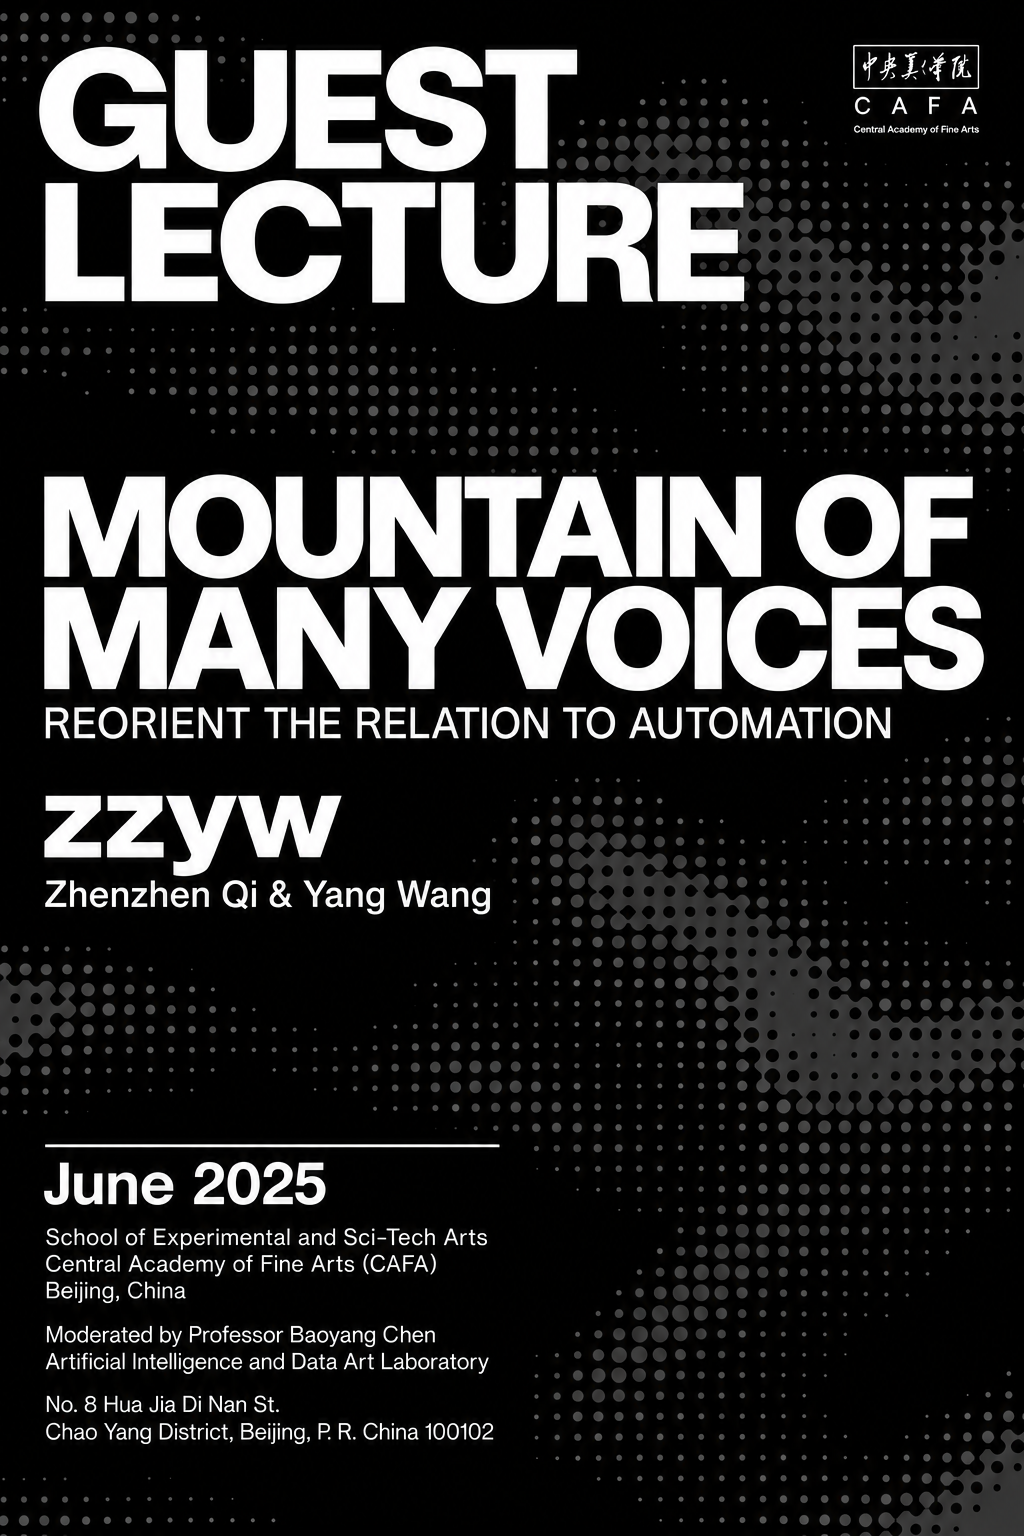
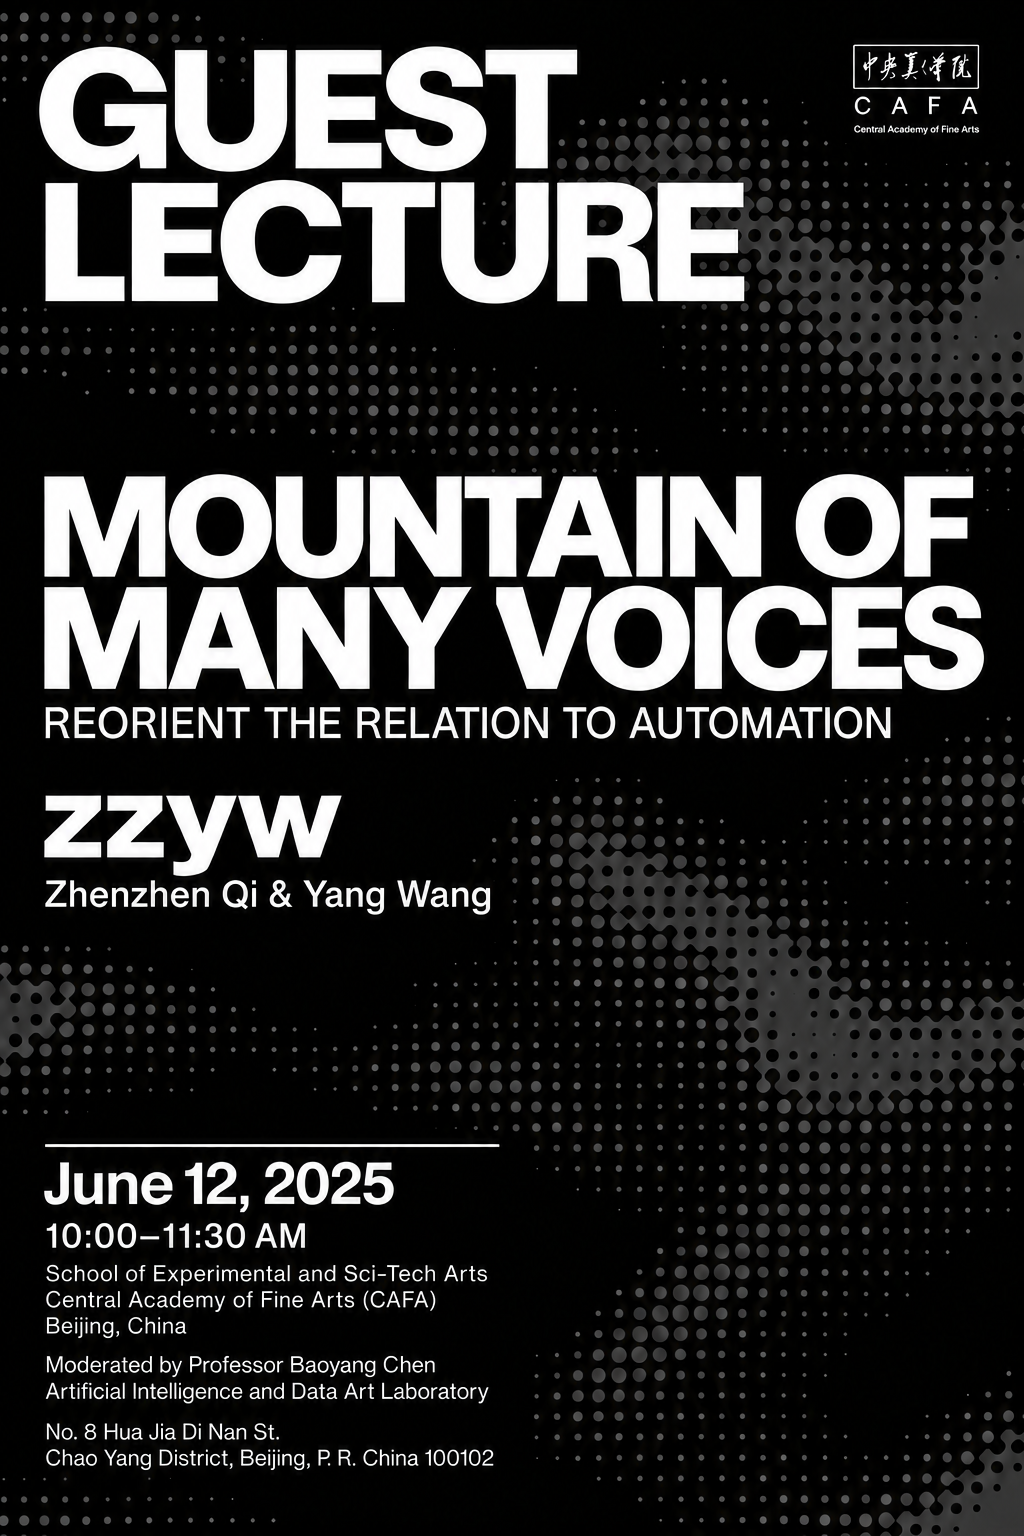
Add CAFA lecture date and time

diff --git a/video-game/momv/index.html b/video-game/momv/index.html
@@ -16,7 +16,7 @@ permalink: /video-game/momv/
 <figure style="width: 62%; max-width: 100%; margin: 1.25rem 0 2rem;">
   <img src="https://raw.githubusercontent.com/zhenzhenqi/zhq23006/main/assets/imported/video-game/momv/hartHaus.jpg" alt="Event flyer for Mountain of Many Voices: Reconstruct the Relation to AI at HART Haus" style="display: block; width: 100%; height: auto;">
 </figure>
-<p>06/2025 — “Mountain of Many Voices: Reorient the Relation to Automation,” guest lecture, <a href="https://www.cafa.edu.cn/sp/nljg/?j=121">School of Experimental and Sci-Tech Arts</a>, Central Academy of Fine Arts (CAFA), Beijing, China. Moderated by Professor Baoyang Chen of the <a href="https://caidic.caai.cn/uploads/files/c7226c8501d7b317c0f38e17bb6cfeeb.pdf">Artificial Intelligence and Data Art Laboratory</a>.</p>
+<p>06/12/2025, 10:00–11:30 AM — “Mountain of Many Voices: Reorient the Relation to Automation,” guest lecture, <a href="https://www.cafa.edu.cn/sp/nljg/?j=121">School of Experimental and Sci-Tech Arts</a>, Central Academy of Fine Arts (CAFA), Beijing, China. Moderated by Professor Baoyang Chen of the <a href="https://caidic.caai.cn/uploads/files/c7226c8501d7b317c0f38e17bb6cfeeb.pdf">Artificial Intelligence and Data Art Laboratory</a>.</p>
 <figure style="width: 62%; max-width: 100%; margin: 1.25rem 0 2rem;">
   <img src="https://raw.githubusercontent.com/zhenzhenqi/zhq23006/main/assets/imported/video-game/momv/cafa-lecture-flyer.png" alt="Guest lecture flyer for Mountain of Many Voices: Reorient the Relation to Automation at the Central Academy of Fine Arts" style="display: block; width: 100%; height: auto;">
 </figure>
